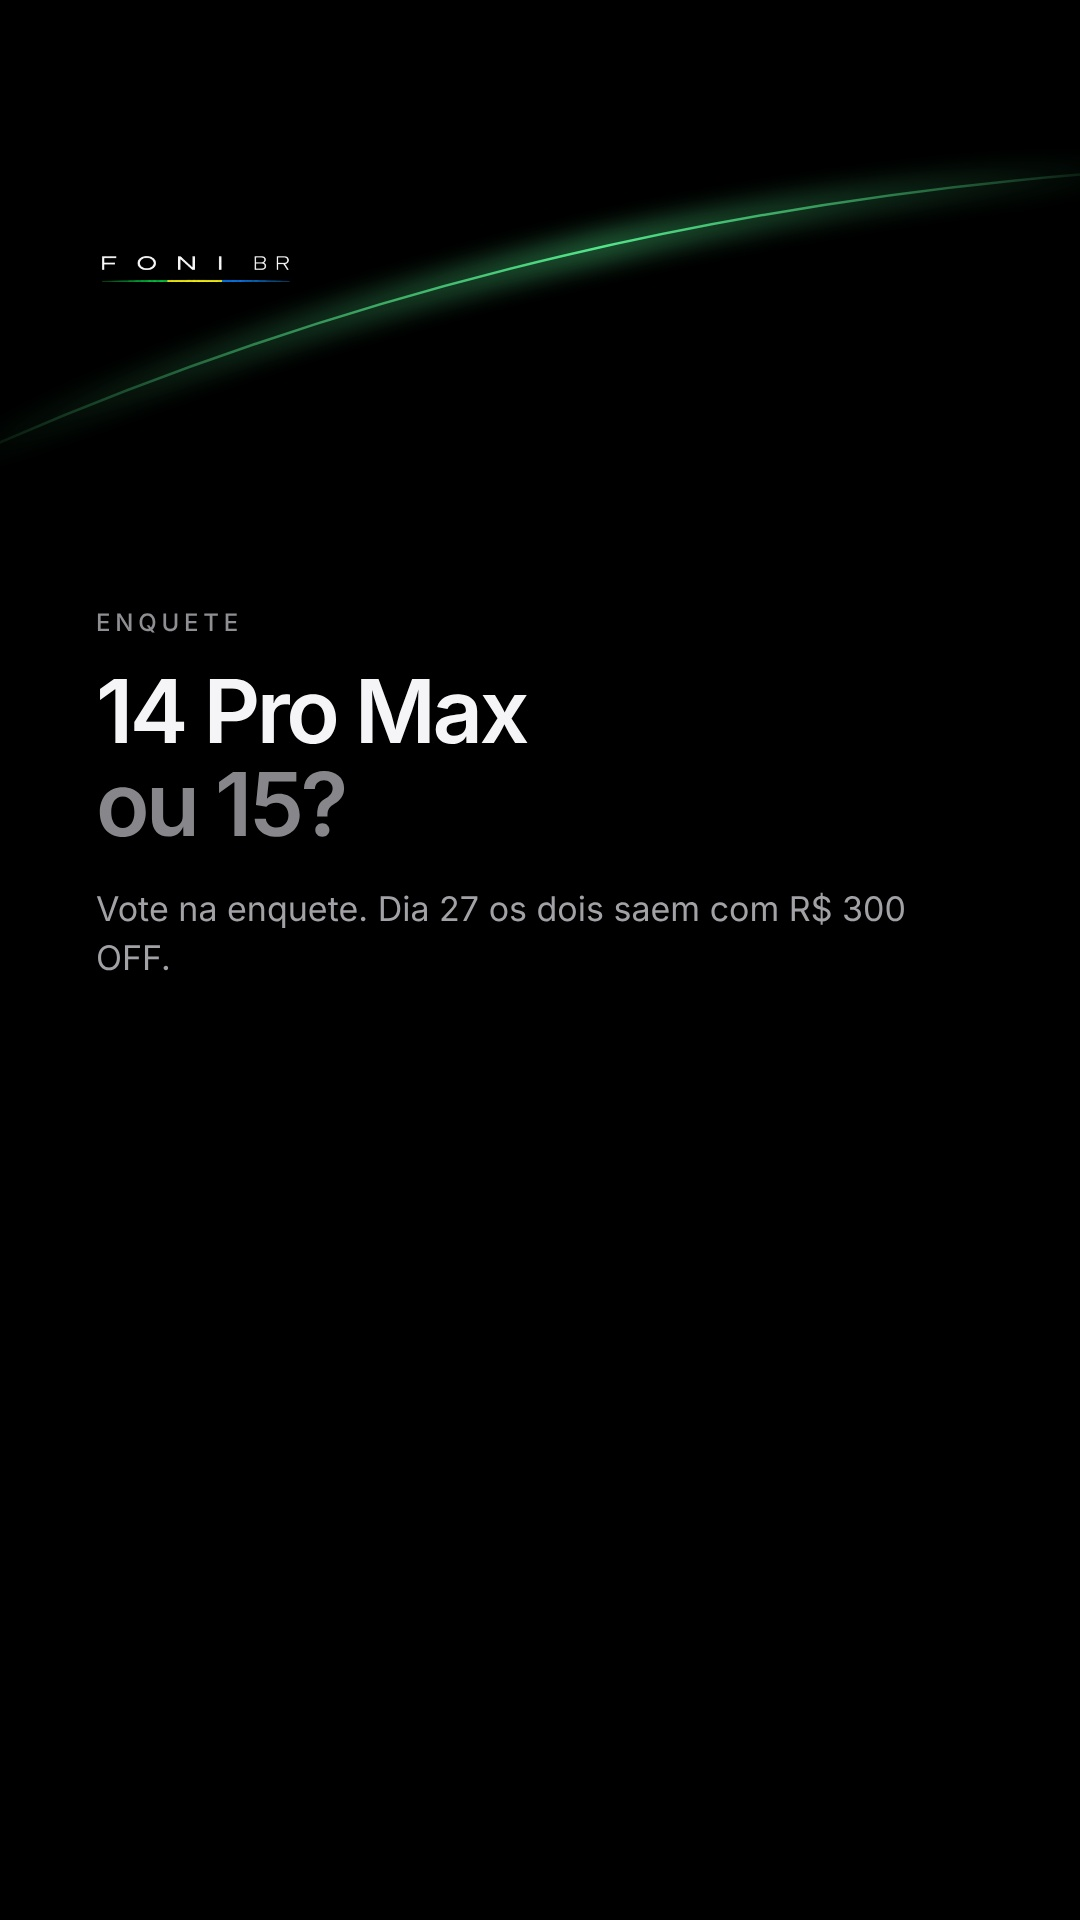
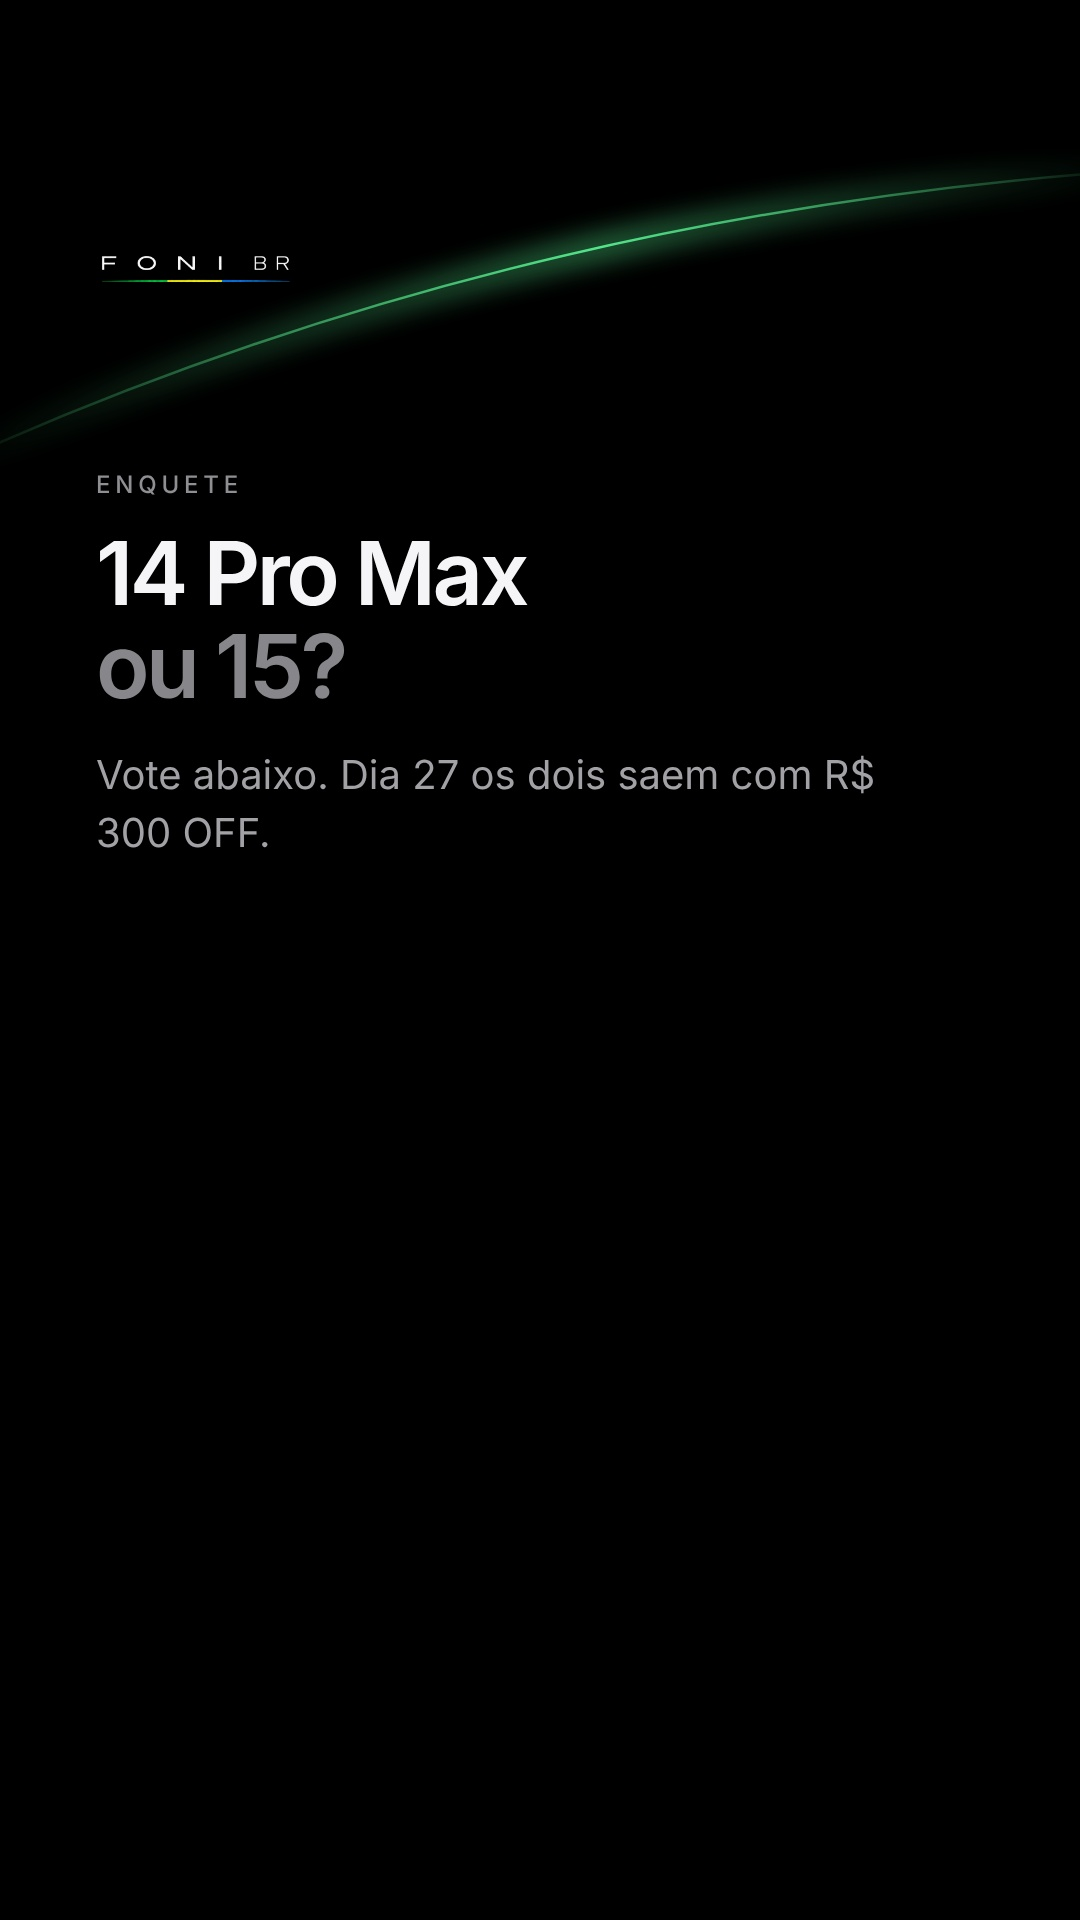
Pauta 23-29/11: ajustes (stories mais legíveis, layout variado, tabela resumida, vitrine sem slide de novos)
Claude-Session: https://claude.ai/code/session_019vjRdoqeP2V79dAj5mGZws

diff --git a/ferramentas/semana_2311/gerar.py b/ferramentas/semana_2311/gerar.py
@@ -14,6 +14,15 @@ WA = "CHAME NO WHATSAPP, LINK DA BIO &rarr;"
 ESPACO = '<div style="height:330px"></div>'  # área livre para a figurinha de enquete
 
 P = []  # (data, arquivo, fmt, html)
+MEIO = 'class="blk" style="top:50%;transform:translateY(-50%)"'
+POS = {"alto": 'class="blk" style="top:470px"', "baixo": 'class="blk" style="bottom:470px"', "meio": MEIO}
+BIG = ("<style>.rows div{font-size:44px;padding:28px 0}.bd{font-size:40px}.cta{font-size:40px}"
+       ".por{font-size:220px}.de{margin-top:40px}.spec{font-size:40px}.cores{font-size:32px}.perks{font-size:34px}</style>")
+
+
+def st(html, pos="meio"):
+    """Story com bloco em altura variada e texto maior (legível em 5 s)."""
+    return html.replace(MEIO, POS[pos]).replace("</head>", BIG + "</head>")
 
 
 def add(d, nome, fmt, html):
@@ -24,7 +33,7 @@ def produto(m, g, b, cores, preco, extra=""):
     return (f'<div class="eb">Seminovo do dia</div><h1>{m}</h1><div class="spec">{g} · Bateria {b}</div>'
             f'<div class="cores">{cores}</div>' + (f'<div class="cores">{extra}</div>' if extra else "") + '<div class="de">À vista</div>'
             f'<div class="por">{brl(preco)}</div>'
-            f'<div class="perks">8 meses de garantia<br>Dia 27: R$ 300 OFF em qualquer iPhone</div>'
+            f'<div class="perks">8 meses de garantia · Dia 27: R$ 300 OFF</div>'
             f'<p class="tap">{WA}</p>')
 
 
@@ -35,50 +44,48 @@ add("2026-11-23", "foni_12h_1ano_revelacao_05.jpg", "feed",
                 "A lista VIP recebe a vitrine na noite de 26/11"],
                "Vitrine aberta dia 27, às 07h43."), "feed", pg="05/05"))
 add("2026-11-23", "foni_story_18h_loja_de_verdade.jpg", "story",
-    page(lista(f'Loja de verdade. {G("Pode conferir.")}',
-               ["FONI BR LTDA · CNPJ 69.207.688/0001-81", "Página no Reclame Aqui",
-                "8 meses de garantia nos seminovos", "Envio para todo o Brasil"], "Chame no WhatsApp, link da bio."),
-         "story", kind="inner"))
+    st(page(lista(f'Loja de verdade. {G("Pode conferir.")}',
+               ["CNPJ 69.207.688/0001-81", "Estamos no Reclame Aqui", "8 meses de garantia nos seminovos"]),
+         "story", kind="inner"), "alto"))
 
 # ---------------------------------------------------------------- 24/11
 add("2026-11-24", "foni_story_0743_produto_iphone14promax.jpg", "story",
-    page(produto("iPhone 14 Pro Max", "128 GB", "90%", "Dourado e Branco", 3900,
-                 "Também 256 GB em Preto e Roxo: R$ 4.120"), "story", kind="inner"))
+    st(page(produto("iPhone 14 Pro Max", "128 GB", "90%", "Dourado e Branco", 3900,
+                 "Também 256 GB em Preto e Roxo: R$ 4.120"), "story", kind="inner"), "baixo"))
 add("2026-11-24", "foni_story_12h_curiosidade_app_store.jpg", "story",
-    page(hero(f'A App Store abriu {G("com 500 apps.")}',
-              "Foi em julho de 2008. Hoje são milhões, e o seu iPhone baixa todos eles."), "story", badge="CURIOSIDADE"))
+    st(page(hero(f'A App Store abriu {G("com 500 apps.")}',
+              "Foi em 10 de julho de 2008. Hoje a loja é parte do dia a dia de qualquer iPhone."), "story", badge="CURIOSIDADE"), "alto"))
 add("2026-11-24", "foni_story_18h_enquete_14promax_15.jpg", "story",
-    page(hero(f'14 Pro Max {G("ou 15?")}', "Vote na enquete. Dia 27 os dois saem com R$ 300 OFF.") + ESPACO,
-         "story", badge="ENQUETE"))
+    st(page(hero(f'14 Pro Max {G("ou 15?")}', "Vote abaixo. Dia 27 os dois saem com R$ 300 OFF.") + ESPACO,
+         "story", badge="ENQUETE"), "alto"))
 
 # ---------------------------------------------------------------- 25/11
 add("2026-11-25", "foni_story_0743_produto_iphone15promax.jpg", "story",
-    page(produto("iPhone 15 Pro Max", "256 GB", "90%+", "Titânio Natural", 4700), "story", kind="inner"))
+    st(page(produto("iPhone 15 Pro Max", "256 GB", "90%+", "Titânio Natural", 4700), "story", kind="inner"), "meio"))
 add("2026-11-25", "foni_story_18h_como_comprar.jpg", "story",
-    page(lista(f'Como comprar {G("na Foni BR")}',
-               ["01 · Chame no WhatsApp, link da bio", "02 · Escolha modelo, cor e armazenamento",
-                "03 · Pague e receba o termo de garantia digital", "04 · Receba em casa, com envio para todo o Brasil"],
-               "Dúvida? É só chamar."), "story", kind="inner"))
+    st(page(lista(f'Como comprar {G("na Foni BR")}',
+               ["1. Chame no WhatsApp", "2. Escolha o seu iPhone", "3. Receba em todo o Brasil"],
+               "Link na bio."), "story", kind="inner"), "baixo"))
 
 # ---------------------------------------------------------------- 26/11
 add("2026-11-26", "foni_story_0743_produto_iphone16pro.jpg", "story",
-    page(produto("iPhone 16 Pro", "128 GB", "89%+", "Titânio Deserto e Natural", 4820,
-                 "Também 256 GB, bateria 100%: R$ 5.120"), "story", kind="inner"))
+    st(page(produto("iPhone 16 Pro", "128 GB", "89%+", "Titânio Deserto e Natural", 4820,
+                 "Também 256 GB, bateria 100%: R$ 5.120"), "story", kind="inner"), "alto"))
 add("2026-11-26", "foni_story_12h_curiosidade_magsafe.jpg", "story",
-    page(hero(f'O MagSafe {G("nasceu no MacBook.")}',
-              "Estreou no MacBook Pro em 2006 e voltou no iPhone 12, em 2020, para carregadores e acessórios magnéticos."),
-         "story", badge="CURIOSIDADE"))
+    st(page(hero(f'O MagSafe {G("nasceu no MacBook.")}',
+              "Estreou no MacBook Pro em 2006 e voltou no iPhone 12, em 2020."),
+         "story", badge="CURIOSIDADE"), "baixo"))
 
 # ---------------------------------------------------------------- 27/11
-add("2026-11-27", "foni_story_12h_1ano_tabela.jpg", "story", page(tabela(), "story", kind="tabela").replace('class="blk" style="top:220px"', 'class="blk" style="top:420px"'))
-n = len(VITRINE) + 3
+add("2026-11-27", "foni_story_12h_1ano_tabela.jpg", "story",
+    st(page(lista(f'Seminovos a partir de {G("R$ 1.970")}',
+                  ["iPhone 13 · R$ 2.330", "iPhone 14 Pro · R$ 3.290", "iPhone 15 Pro Max · R$ 4.400", "iPhone 16 Pro Max · R$ 5.270"],
+                  "16 modelos com R$ 300 OFF. Veja todos no post."), "story", kind="inner"), "meio"))
+n = len(VITRINE) + 2
 vit = [page(one(f'A vitrine {G("abriu.")}', "Hoje a Foni BR faz um ano e o presente é seu. R$ 300 OFF em qualquer iPhone."),
             "feed", badge="1 ANO", pg=f"01/{n:02d}", swipe=True)]
 for i, r in enumerate(VITRINE, 2):
     vit.append(page(modelo(*r), "feed", badge="VITRINE 1 ANO", pg=f"{i:02d}/{n:02d}"))
-vit.append(page(lista(f'iPhones novos {G("também.")}',
-                      ["Lacrados, a partir do iPhone 16", "R$ 300 OFF em qualquer modelo", "Consulte cores e preços"],
-                      "Chame no WhatsApp, link da bio."), "feed", pg=f"{n-1:02d}/{n:02d}"))
 vit.append(page(lista(f'Até 30/11 ou {G("enquanto durar.")}',
                       ["R$ 300 OFF em qualquer iPhone", "8 meses de garantia nos seminovos", "Capa + película de brinde",
                        "Cupom FONI1ANO no fonibr.com.br"], "Chame no WhatsApp, link da bio."), "feed", pg=f"{n:02d}/{n:02d}"))
@@ -87,17 +94,17 @@ for i, h in enumerate(vit, 1):
 
 # ---------------------------------------------------------------- 28/11
 add("2026-11-28", "foni_story_12h_1ano_upgrade.jpg", "story",
-    page(hero(f'Seu iPhone antigo {G("vira crédito.")}', "Troque pelo Foni Upgrade. Modelo novo com R$ 300 OFF até 30/11.", WA),
-         "story", badge="FONI UPGRADE"))
+    st(page(hero(f'Seu iPhone antigo {G("vira crédito.")}', "Troque pelo Foni Upgrade. Modelo novo com R$ 300 OFF até 30/11.", WA),
+         "story", badge="FONI UPGRADE"), "alto"))
 add("2026-11-28", "foni_story_18h_enquete_garantiu.jpg", "story",
-    page(hero(f'Já garantiu {G("o seu?")}', "R$ 300 OFF em qualquer iPhone até 30/11.") + ESPACO, "story", badge="ENQUETE"))
+    st(page(hero(f'Já garantiu {G("o seu?")}', "R$ 300 OFF em qualquer iPhone até 30/11.") + ESPACO, "story", badge="ENQUETE"), "alto"))
 
 # ---------------------------------------------------------------- 29/11
 add("2026-11-29", "foni_story_12h_1ano_ate_amanha.jpg", "story",
-    page(hero(f'Só até {G("amanhã.")}', "R$ 300 OFF em qualquer iPhone, capa + película de brinde e cupom FONI1ANO.", WA), "story"))
+    st(page(hero(f'Só até {G("amanhã.")}', "R$ 300 OFF em qualquer iPhone e capa + película de brinde.", WA), "story"), "baixo"))
 add("2026-11-29", "foni_story_12h_reel_ultimos_dias.jpg", "story",
-    page(hero(f'Últimos dias {G("da vitrine.")}', "R$ 300 OFF em qualquer iPhone até 30/11.", "TOQUE NO PERFIL PARA VER &rarr;"),
-         "story", badge="NOVO REEL"))
+    st(page(hero(f'Últimos dias {G("da vitrine.")}', "R$ 300 OFF em qualquer iPhone até 30/11.", "TOQUE NO PERFIL PARA VER &rarr;"),
+         "story", badge="NOVO REEL"), "meio"))
 
 
 def reel_ultimos():
